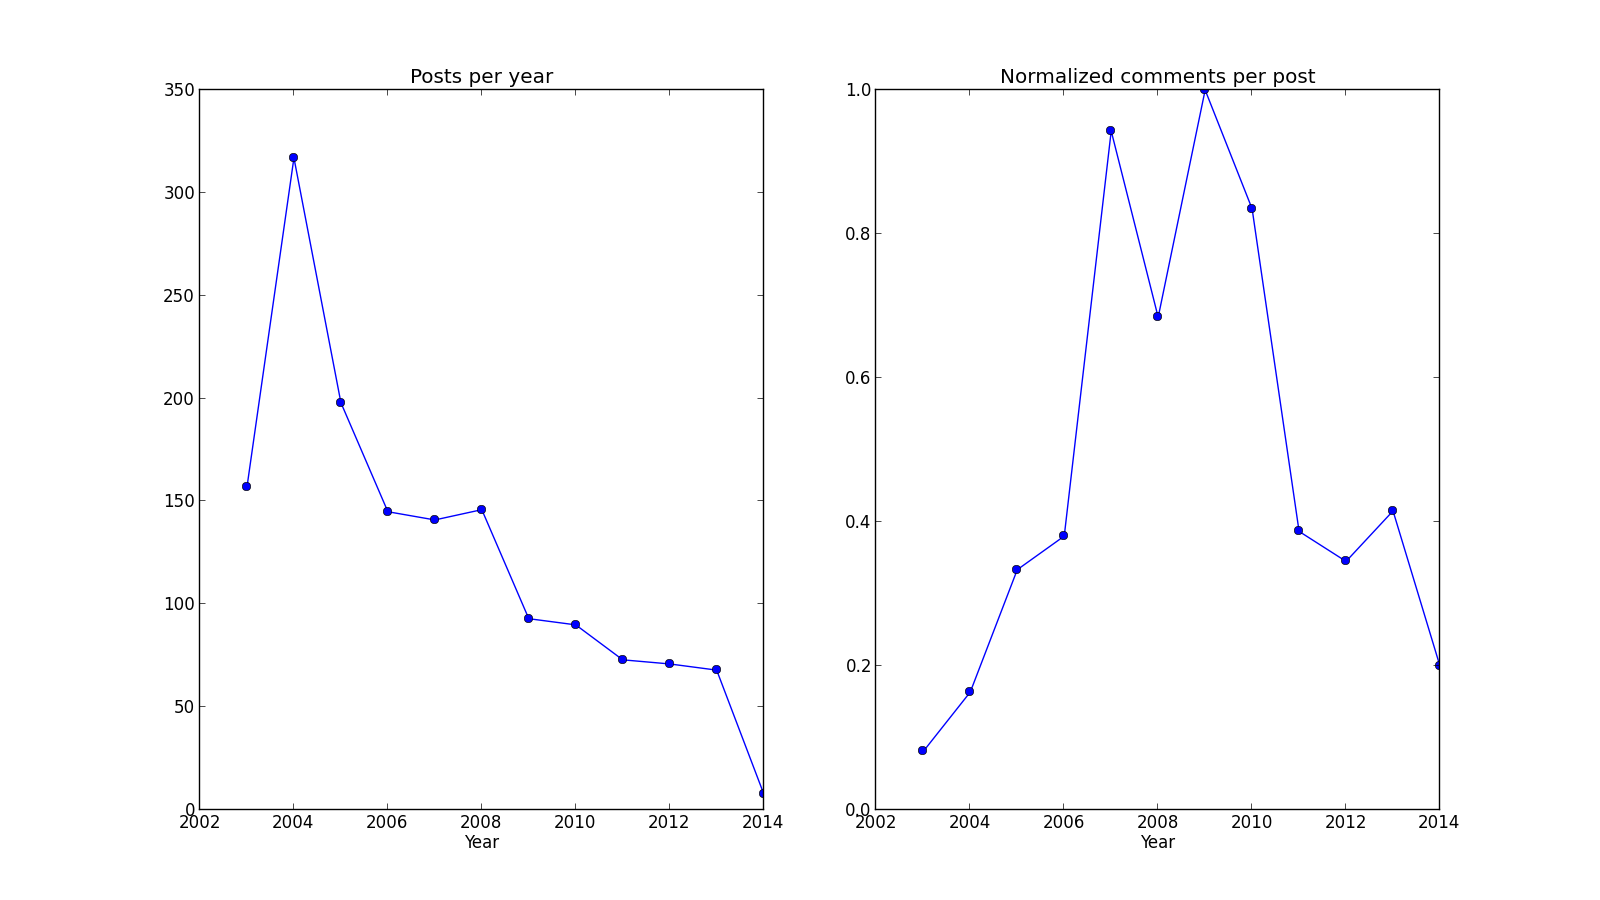
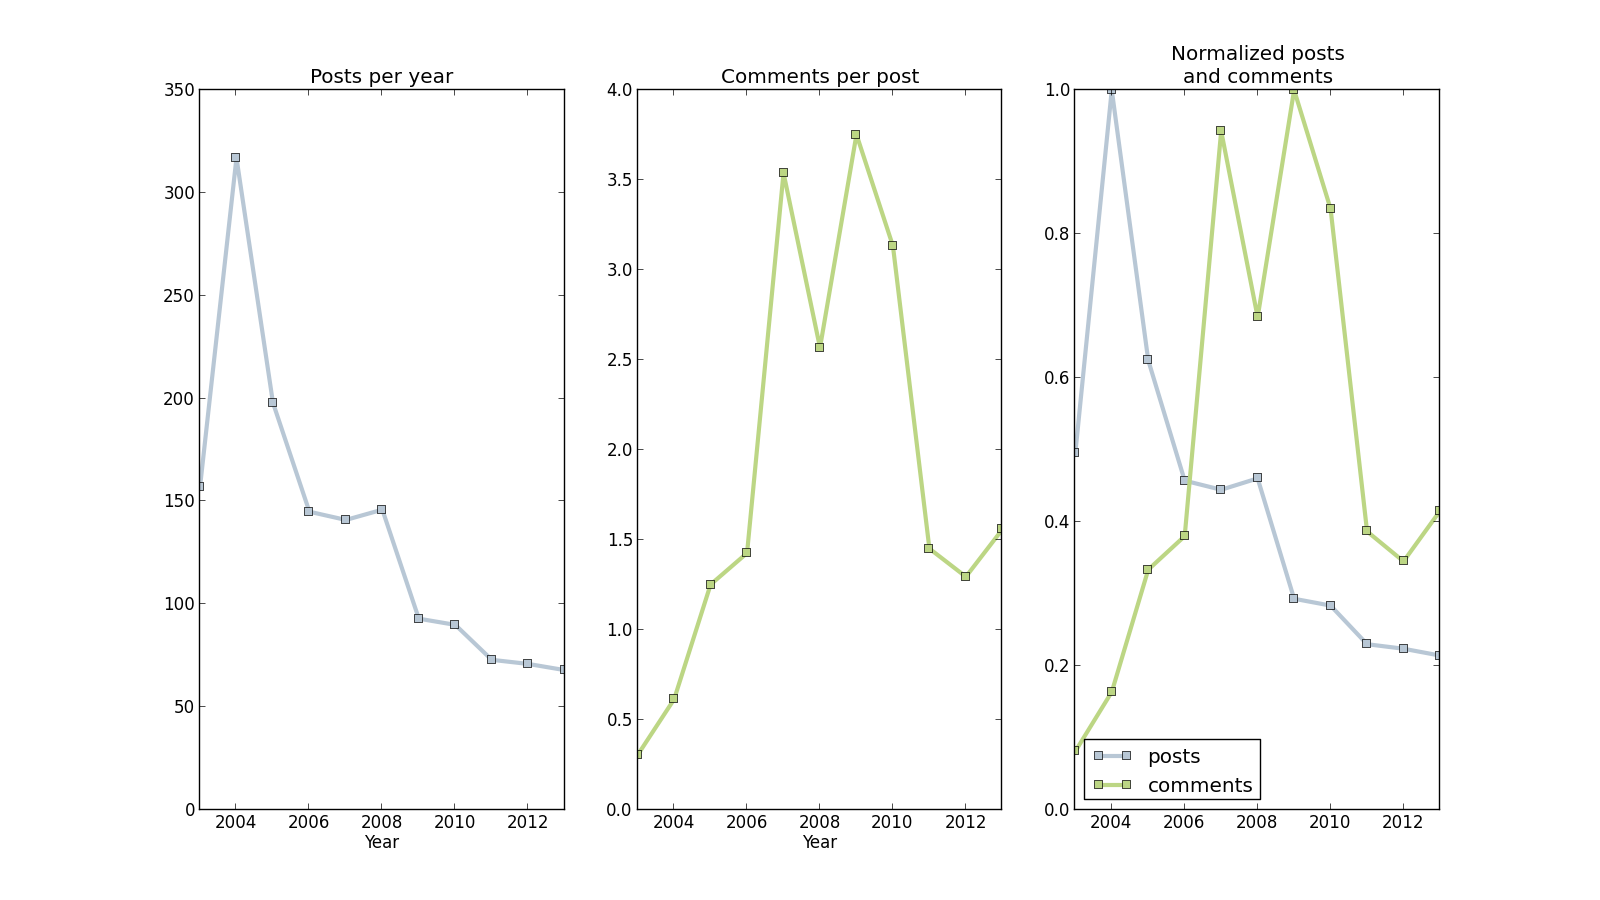
Making plot a bit prettier and more informative
Thicker plots with colors from `I want hue`, markers and thicker lines.
Additionally also plotting the normalized posts and comments together in
a third plot.

diff --git a/comments-visualization/comments.py b/comments-visualization/comments.py
@@ -2,10 +2,12 @@
 Plotting comment number from a WordPress MySQL database
 '''
 
+from __future__ import division
 import optparse
 import random
 import string
 import sys
+
 try:
     import mysql.connector
 except ImportError:
@@ -84,11 +86,12 @@ Years = [int(post_date) for (post_date, ID, comment_count) in cursor]
 
 cursor.execute(query)
 Posts = [int(ID) for (post_date, ID, comment_count) in cursor]
+NormalizedPosts = [x / max(Posts) for x in Posts]
 
 cursor.execute(query)
 CommentsPerPost = [float(comment_count) for
                    (post_date, ID, comment_count) in cursor]
-NormalizedAverage = [x / max(CommentsPerPost) for x in CommentsPerPost]
+NormalizedComments = [x / max(CommentsPerPost) for x in CommentsPerPost]
 
 cursor.close()
 databaseconnection.close()
@@ -99,21 +102,32 @@ print 40 * '-'
 for y in Years:
     print y, '|', str(Posts[Years.index(y)]).rjust(5), '|',\
         str(round(CommentsPerPost[Years.index(y)], 2)).ljust(5), '|',\
-        str(round(NormalizedAverage[Years.index(y)], 3)).ljust(8)
+        str(round(NormalizedComments[Years.index(y)], 3)).ljust(8)
 
+# Colors by http://tools.medialab.sciences-po.fr/iwanthue/, Fancy (light
+# background), 2 colors, soft (k-means)
 if plot:
+    plt.rc('lines', linewidth=3, marker='s')
     plt.figure(figsize=(16, 9))
-    plt.subplot(121)
-    plt.plot(Years, Posts, marker='o')
+    plt.subplot(131)
+    plt.plot(Years, Posts, color='#B8C7D5')
     plt.xlabel('Year')
+    plt.xlim([min(Years), max(Years) - 1])
     plt.title('Posts per year')
-    plt.subplot(122)
+    plt.subplot(132)
     if options.Normalized:
-        plt.plot(Years, NormalizedAverage, marker='o')
+        plt.plot(Years, NormalizedComments, color='#BCD684')
         plt.title('Normalized comments per post')
     else:
-        plt.plot(Years, CommentsPerPost, marker='o')
+        plt.plot(Years, CommentsPerPost, color='#BCD684')
         plt.title('Comments per post')
     plt.xlabel('Year')
+    plt.xlim([min(Years), max(Years) - 1])
+    plt.subplot(133)
+    plt.plot(Years, NormalizedPosts, label='posts', color='#B8C7D5')
+    plt.plot(Years, NormalizedComments, label='comments', color='#BCD684')
+    plt.legend(loc='best')
+    plt.title('Normalized posts\nand comments')
+    plt.xlim([min(Years), max(Years) - 1])
     plt.savefig(str(options.User) + '.png')
     plt.show()
